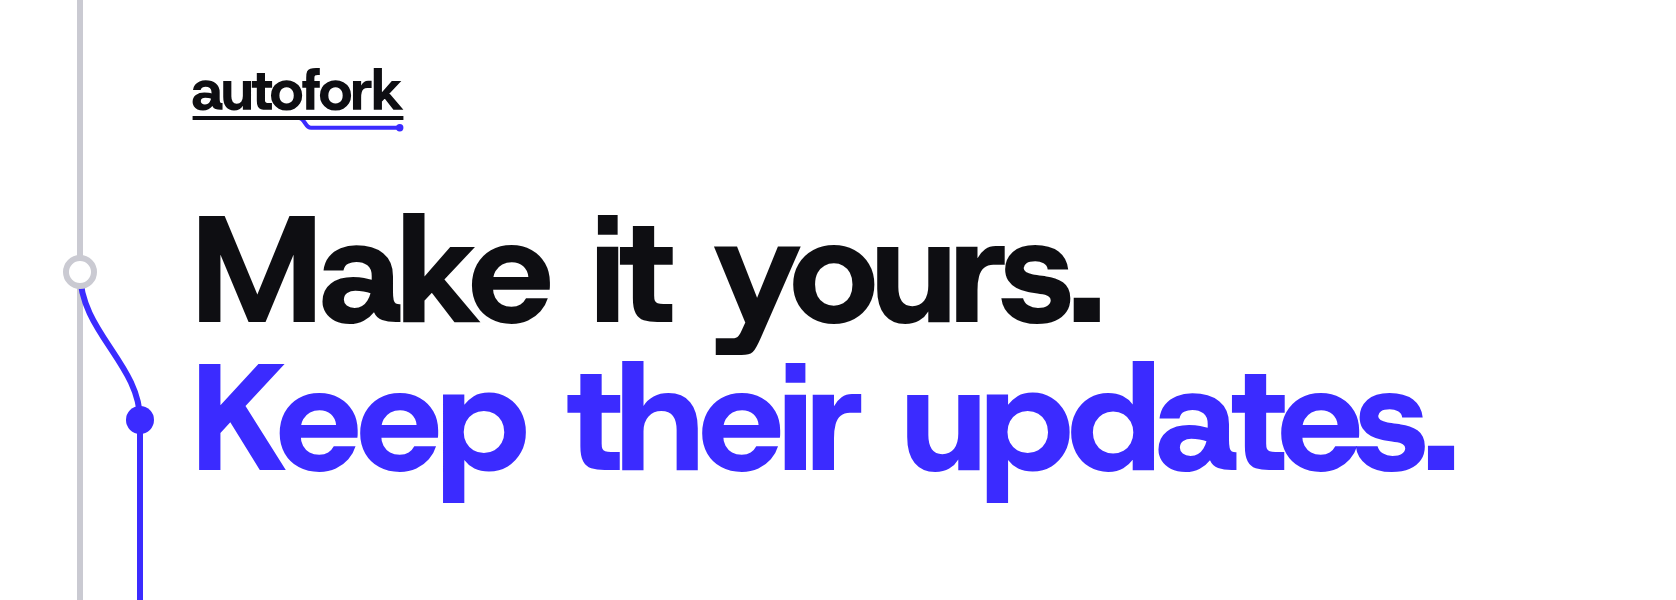
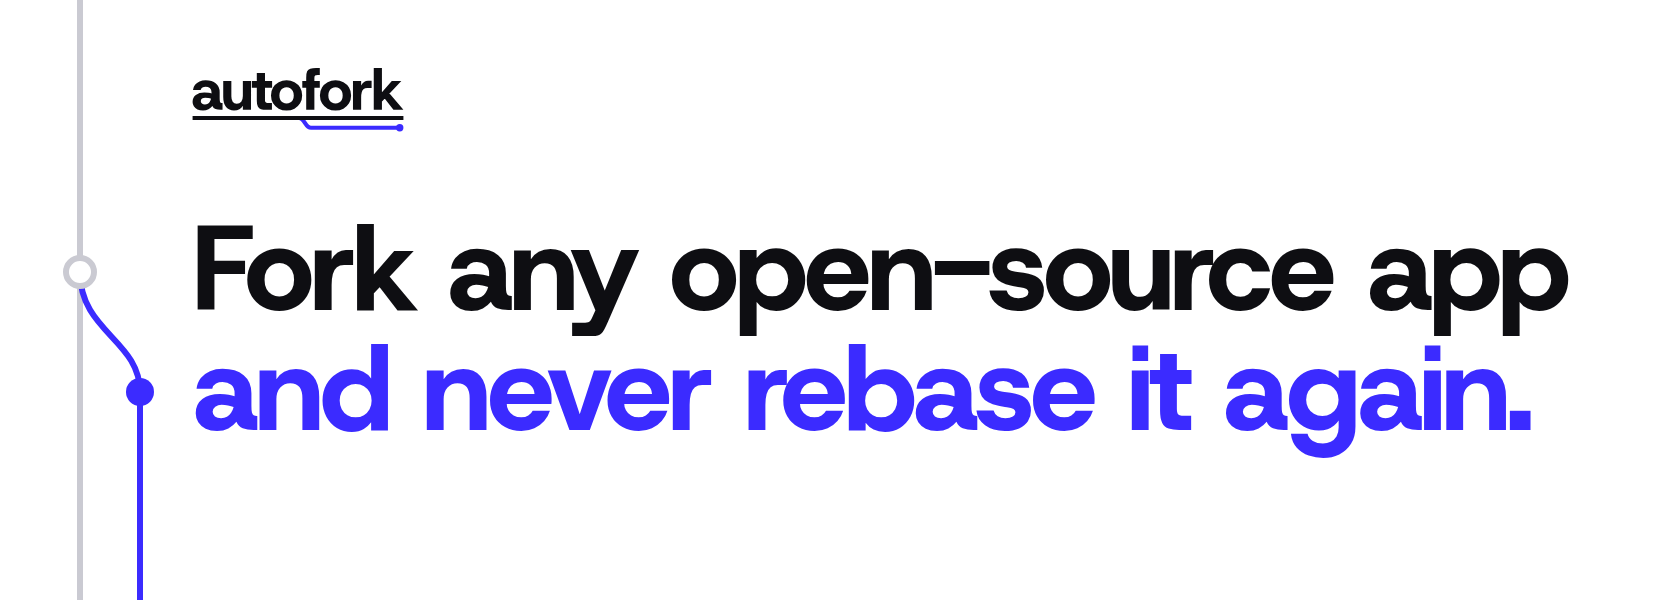
README, --help and package description lead with the new pitch: "Fork any open-source app and never rebase it again." over "Personal forks of open-source apps that update themselves.", with the README header re-rendered

Changed region(s): [[0.031, 0.36, 0.9618, 0.84]]

diff --git a/src/autofork.ts b/src/autofork.ts
@@ -513,8 +513,8 @@ async function status(root: string) {
   if (drift.length) say(`not in any patch yet:\n  ${drift.join("\n  ")}`);
 }
 
-const USAGE = `autofork: Make it yours. Keep their updates.
-Name an open source app and what you'd change. Every new release arrives with your changes already in it.
+const USAGE = `autofork: Fork any open-source app and never rebase it again.
+Personal forks of open-source apps that update themselves.
 
 Usage:
   autofork fork <owner/repo>    fork it on GitHub, set it up and push

diff --git a/dist/autofork.js b/dist/autofork.js
@@ -517,8 +517,8 @@ async function status(root) {
   ${drift.join(`
   `)}`);
 }
-var USAGE = `autofork: Make it yours. Keep their updates.
-Name an open source app and what you'd change. Every new release arrives with your changes already in it.
+var USAGE = `autofork: Fork any open-source app and never rebase it again.
+Personal forks of open-source apps that update themselves.
 
 Usage:
   autofork fork <owner/repo>    fork it on GitHub, set it up and push

diff --git a/README.md b/README.md
@@ -1,9 +1,11 @@
 <a href="https://autofork.com"><picture>
   <source media="(prefers-color-scheme: dark)" srcset="assets/header-dark.png">
-  <img alt="autofork: Make it yours. Keep their updates." src="assets/header-light.png">
+  <img alt="autofork: Fork any open-source app and never rebase it again." src="assets/header-light.png">
 </picture></a>
 
-autofork keeps your fork on top of upstream, and when upstream breaks one of your changes, an agent rebuilds it. Fork something at [autofork.com](https://autofork.com), or from a terminal:
+Personal forks of open-source apps that update themselves. Each change you make is saved in plain words, in a `PATCH.md`. On every upstream release your changes go back on top, and when one no longer applies, an agent rebuilds it from what you wrote, in your fork's own GitHub Actions, on your Claude or ChatGPT plan.
+
+Fork something at [autofork.com](https://autofork.com), or from a terminal:
 
 ```sh
 npx github:AVGVSTVS96/autofork fork pingdotgg/t3code
@@ -105,8 +107,8 @@ Your agent then knows how to fork a repo and keep its changes as patches.
 
 ```
 $ npx github:AVGVSTVS96/autofork --help
-autofork: Make it yours. Keep their updates.
-Name an open source app and what you'd change. Every new release arrives with your changes already in it.
+autofork: Fork any open-source app and never rebase it again.
+Personal forks of open-source apps that update themselves.
 
 Usage:
   autofork fork <owner/repo>    fork it on GitHub, set it up and push
